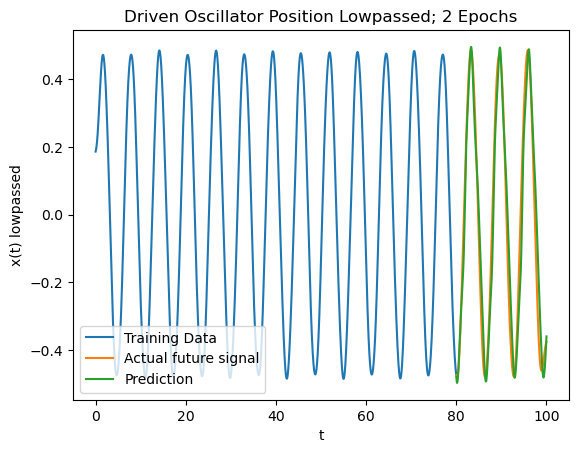
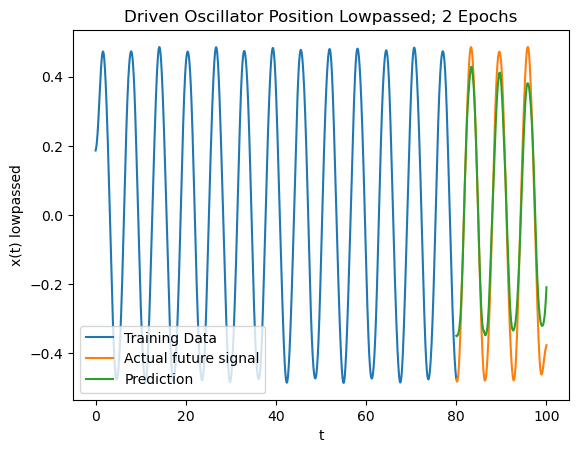
epochs

diff --git a/docs/projects/filters_lstm/filters_and_neural_networks.md b/docs/projects/filters_lstm/filters_and_neural_networks.md
@@ -69,6 +69,8 @@ Each “input” window from “n” to “n + n_window” gets a subsequent “
 
 I apply this process to each filtered signal and feed those filtered signals into the neural networks.
 
+Furthermore I train the neural networks using a very small learning rate of $10^{-10}$ so that performance can be compared meaningfully.
+
 ## Neural Network Performance
 
 Time to see how effective filtering can be!
@@ -80,33 +82,54 @@ First we look at the predictions from neural network for the  **lowpassed signal
 ![pred_lp_epoch1](pred_lp_epoch1.png)
 ![pred_lp_epoch2](pred_lp_epoch2.png)
 
+*Looks like the lowpass neural network is converging to an accurate prediction.*
+
 Then we look at the predictions from neural network for the  **highpassed signal**
 
 ![pred_hp_epoch1](pred_hp_epoch1.png)
 ![pred_hp_epoch2](pred_hp_epoch2.png)
+
+*Looks like the highpass neural network converges to an accurate prediction very quickly as well.*
 
 Finally, let's look at the performance of the **filter based predictions added together**:
 
 ![pred_filtered_epoch1](pred_filtered_epoch1.png)
 ![pred_filtered_epoch2](pred_filtered_epoch2.png)
 
+*The filtered predictions added together seem to converge to an accurate prediction.*
+
 Let's compare this to a **baseline prediction**, which is made from a neural network I trained on the raw unfiltered signal itself.
 
 ![pred_raw_epoch1](pred_raw_epoch1.png)
 ![pred_raw_epoch2](pred_raw_epoch2.png)
 
-Since it's not super clear which process performed better, we can compare the mean squared error between the prediction and actual future signal, ie **MSE**:
 
-MSE Raw 1 Epochs: 0.3650
-MSE Raw 2 Epochs: 0.4110
-MSE LP Filtered: 1 Epochs: 0.3530
-MSE LP Filtered: 2 Epochs: 0.3296
-MSE HP Filtered: 1 Epochs: 0.1232
-MSE HP Filtered: 2 Epochs: 0.1230
-MSE Filtered: 1 Epochs: 0.3473
-MSE Filtered: 2 Epochs: 0.3265
+*The raw prediction from the baseline neural network is decent, but seems to neglect high frequency phenomena.*
 
+**Takeaway**:
 
+A normal LSTM neural network may be limited in it's ability to capture higher frequency phenomena given a set number of layers. This may be solved through conventional methods like tuning the neural network parameters like depth.
 
-## Next Steps
+However, a simpler solution may involve the use of filters.
+
+## Thoughts and Next Steps
+
+**Proper Performance Evaluation and Batch Processes**
+
+My evaluation was qualitative in nature, to showcase the nature of filters in a simple project.
+
+In the future, I may formalize this into a more "production-ready" process which tracks training performance over time.
+
+Furthermore, you may notice that **I did not track training performance, i.e. loss per epoch.**
+
+In my current process, each epoch is essentially treated as "one batch" of all the labeled windows in the signal. This means **a single epoch is extremely large, and therefore loss per epoch rather meaningless**.
+
+In the future, I may formalize a process to make each window a proper "batch", such that batches can be shuffled, and that loss per epoch becomes more meaningful.
+
+**Many Filters**
+
+Two filters is not always going to be sufficient in the real world. It would be interesting to see if the filtering process could be generalized to more complex situations.
+
+What about a flexible framework that allows the user to split the signal with as many filters as they want? (For example, one may elect fora lowpass filter, a highpass filter, and $N$ number of bandpass filters.)
+
 ![filterdiagram2](filterdiagram2.png)
